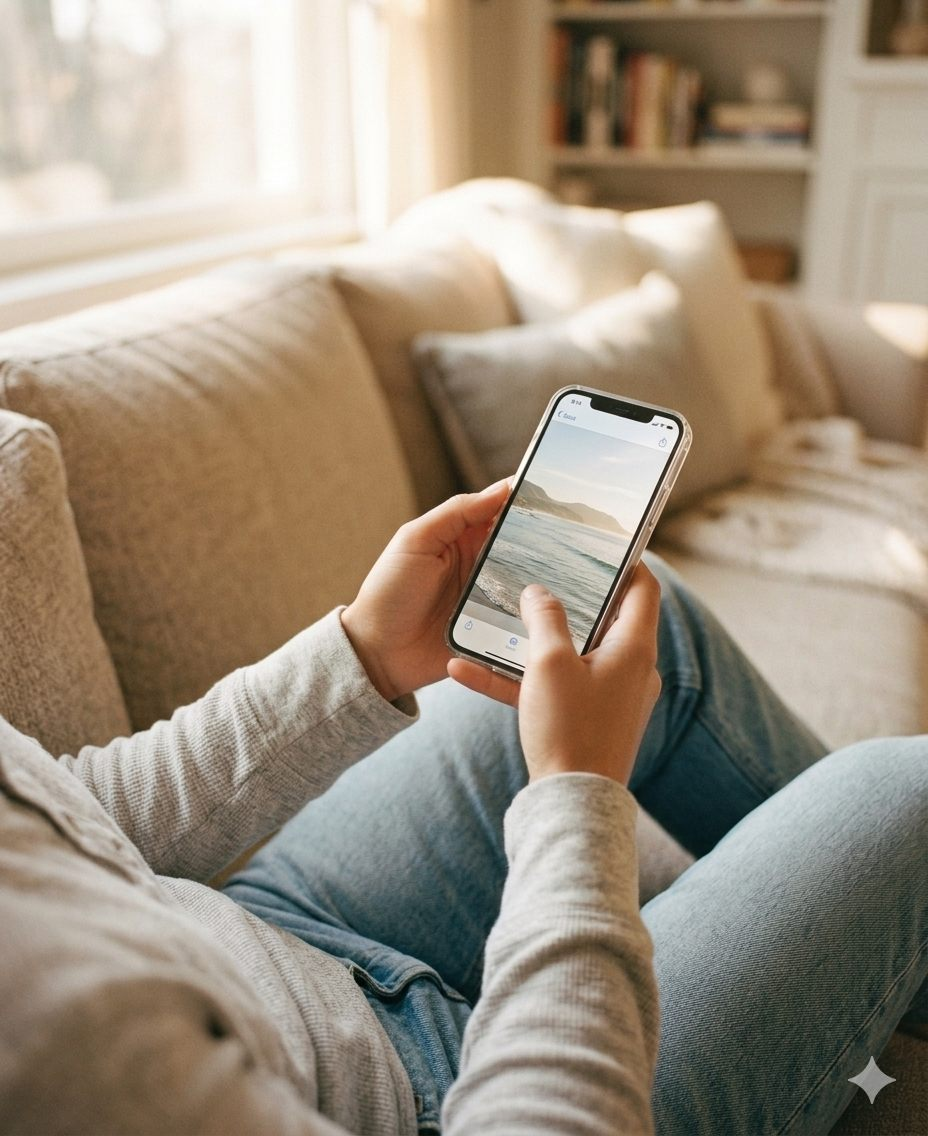
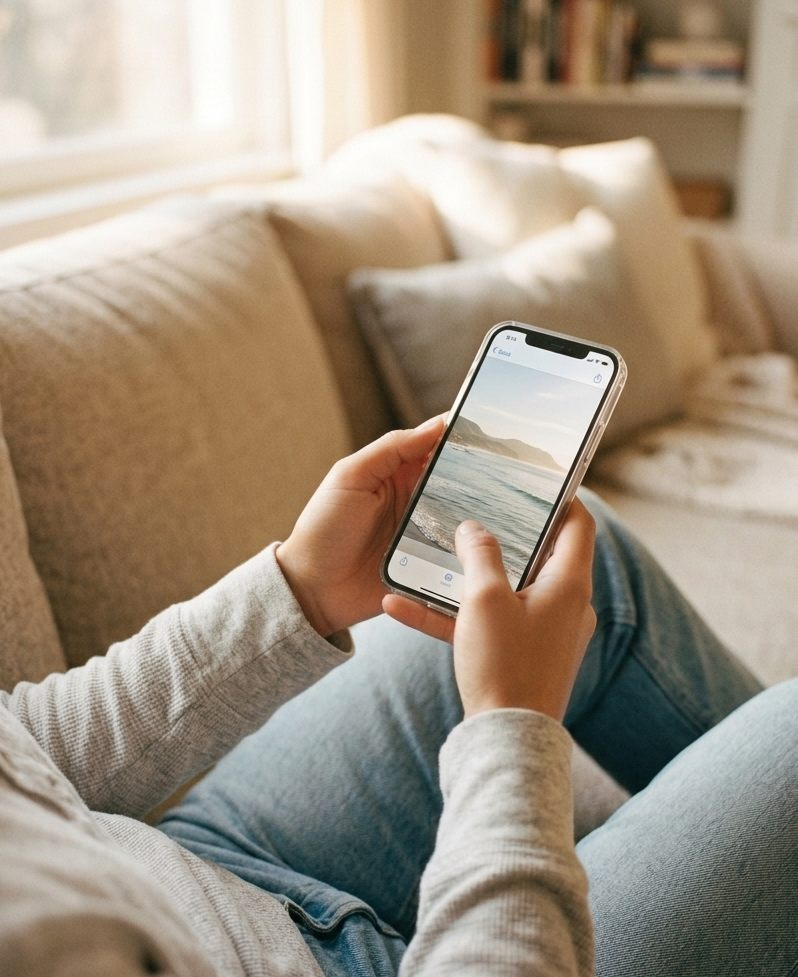
Crop hero photo watermark; cache-bust css/js/img links

diff --git a/index.html b/index.html
@@ -8,7 +8,7 @@
     <title>Filtored — The Smart AI Gallery</title>
     <link rel="icon" type="image/png" sizes="192x192" href="favicon.png">
     <link rel="apple-touch-icon" href="favicon.png">
-    <link rel="stylesheet" href="style.css">
+    <link rel="stylesheet" href="style.css?v=2">
     <link rel="preconnect" href="https://fonts.googleapis.com">
     <link rel="preconnect" href="https://fonts.gstatic.com" crossorigin>
     <link href="https://fonts.googleapis.com/css2?family=Sora:wght@400;600;700;800&family=Inter:wght@400;500;600&display=swap" rel="stylesheet">
@@ -43,7 +43,7 @@
                 </div>
             </div>
             <div class="hero-shot">
-                <img class="shot shot-tall" src="assets/hero-couch.jpg" alt="Relaxed person browsing their photo gallery on a phone" width="928" height="1136">
+                <img class="shot shot-tall" src="assets/hero-couch.jpg?v=2" alt="Relaxed person browsing their photo gallery on a phone" width="798" height="977">
             </div>
         </section>
 
@@ -185,6 +185,6 @@
         </div>
     </footer>
 
-    <script src="script.js"></script>
+    <script src="script.js?v=2"></script>
 </body>
 </html>
